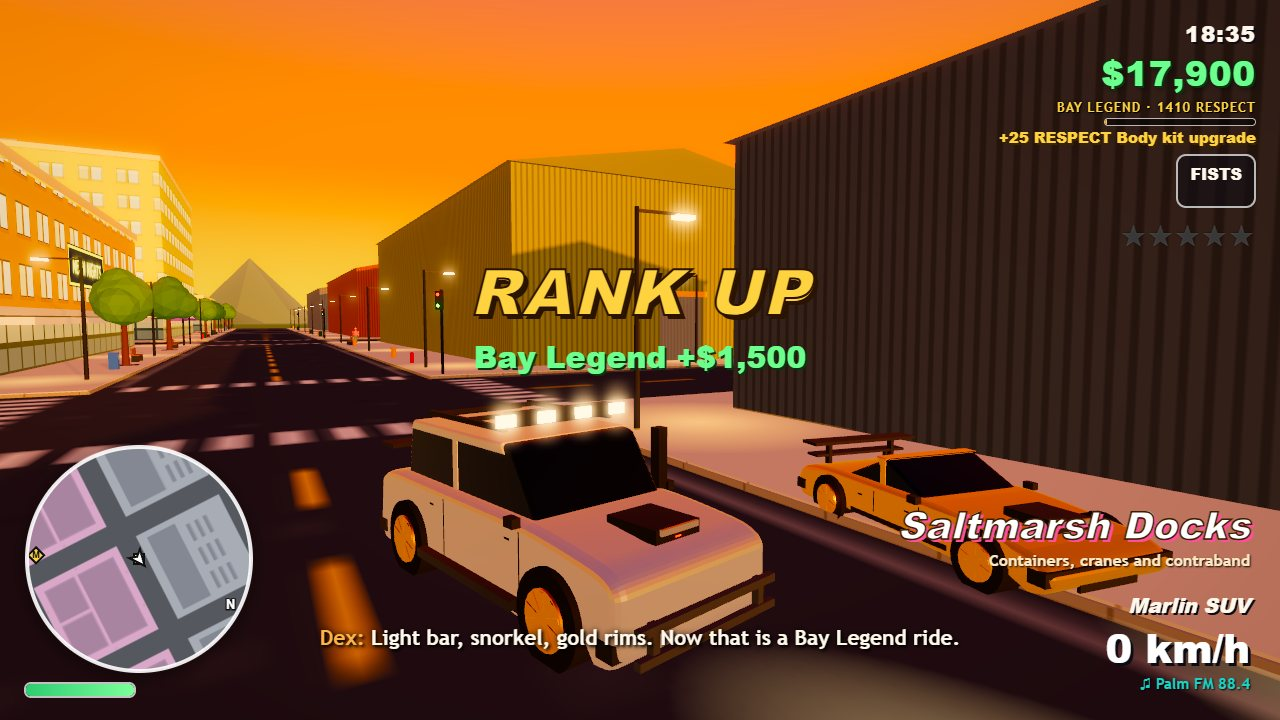
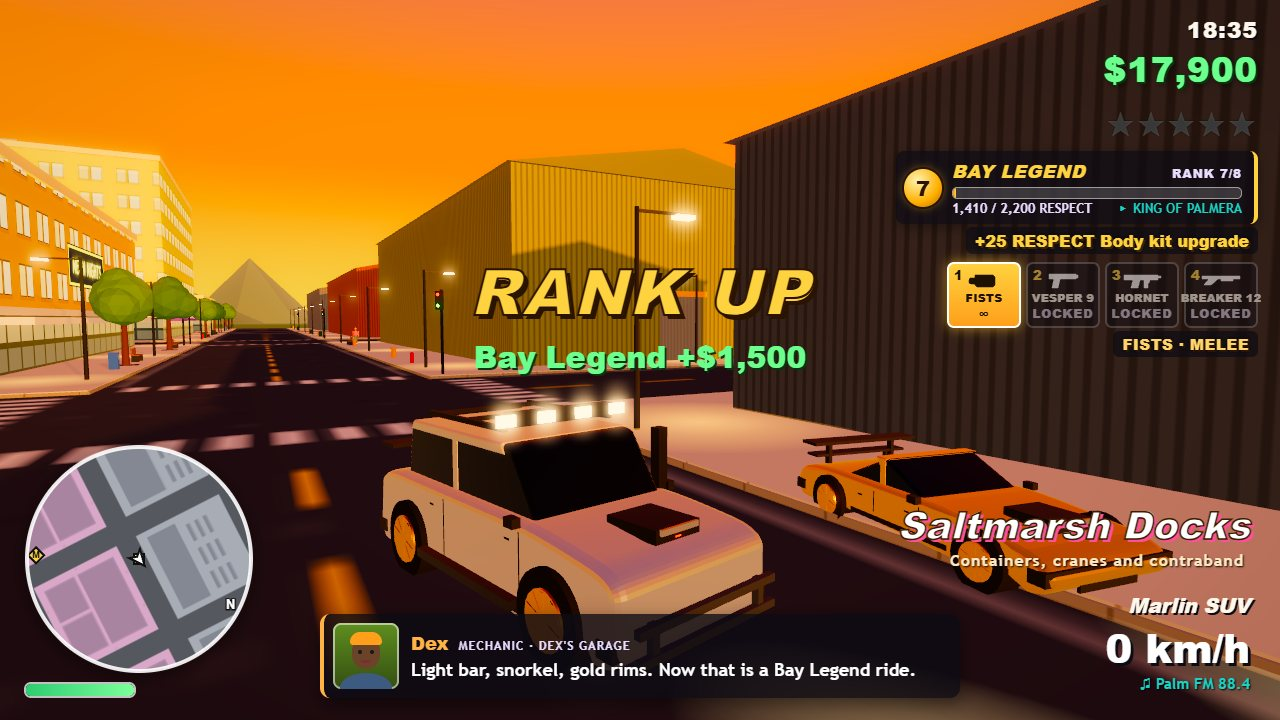
New screenshots with the full HUD: the roadblock cover with the mission card, the dispatch board and the rank block; a cruiser crew out on foot behind Nico in the gunfight; the race card in the street race; right-column lines on dark pills so they read over the sunset sky; shots.json says what each 

Changed region(s): [[0.6875, 0.0306, 1.0, 0.4889], [0.25, 0.825, 0.75, 0.9778], [0.75, 0.7639, 1.0, 0.7944]]

diff --git a/game/style.css b/game/style.css
@@ -243,3 +243,8 @@ html, body { margin: 0; height: 100%; overflow: hidden; background: #f4c9a6; }
 .portrait .hair-back { display: none; left: 15px; top: 10px; width: 36px; height: 44px; border-radius: 16px 16px 8px 8px; background: var(--hair); }
 .portrait.long .hair-back { display: block; }
 .portrait:not(.face) .shirt, .portrait:not(.face) .head, .portrait:not(.face) .hair { display: none; }
+
+/* The right column's loose lines sit on dark pills so they read over a bright sky. */
+.hud-seen.show, .hud-rank-pop.show, .hud-ammo { padding: 2px 9px; border-radius: 6px; background: rgba(13, 11, 20, 0.72); }
+.hud-rank-pop:not(.show) { visibility: hidden; }
+.hud-stars { font-size: 34px; }

diff --git a/game/src/shots.js b/game/src/shots.js
@@ -421,6 +421,8 @@ function gunfight(game) {
   game.roadblockTimer = 99;
   game.heli.cooldown = 0;
   const rb = placeRoadblock(game, { x: 266, z: 444, alongX: true, dir: 1 });
+  // A cruiser coming up the street behind Nico: it pulls up and its crew gets out (off camera).
+  policeUnit(game, 'cruiser', 212, 442.6, Math.PI / 2, 13);
   for (const [dx, dz] of [[7, -9.5], [11, 9.8], [16, -10.2], [4, 10.4], [20, 9.6]]) spawnPed(game, p.x + dx, p.z + dz);
   panic(game, p.x + 12, p.z, 40);
   game.rig.yaw = Math.PI / 2;
